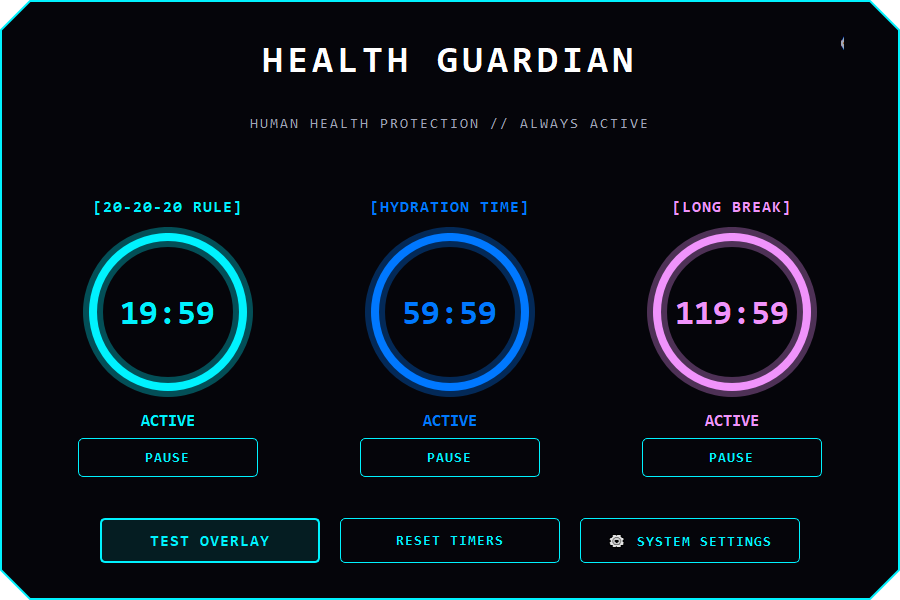
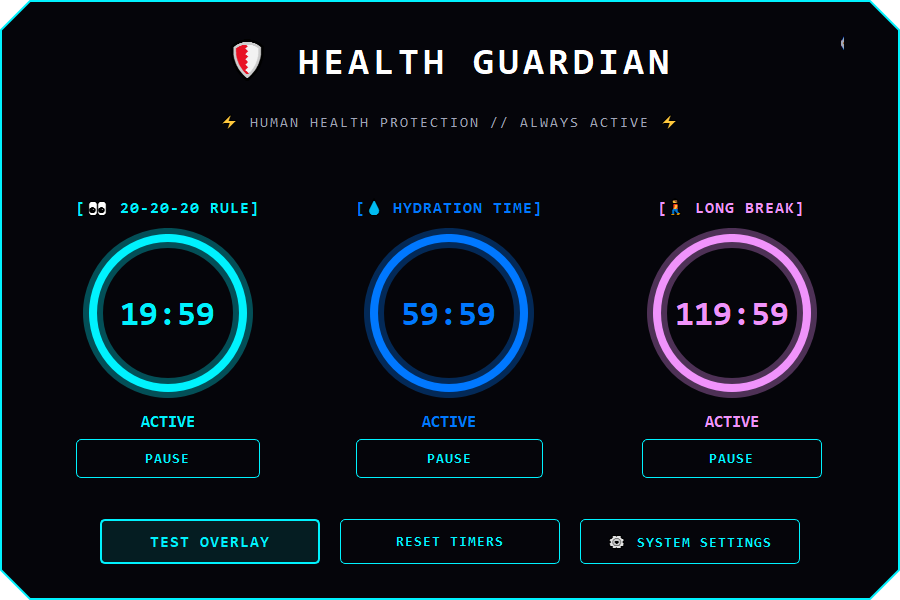
feat: add health emojis to titles and dashboard headers for professional engagement

diff --git a/main.py b/main.py
@@ -28,9 +28,9 @@ APP_SETTINGS = {
 
 # Configuration Data
 TIMERS_CONF = {
-    '20': {'duration': 20 * 60, 'break_duration': 20, 'title': '20-20-20 Rule', 'message': 'LOOK 20 FEET AWAY', 'color': '#00f2fe'},
-    '60': {'duration': 60 * 60, 'break_duration': 60, 'title': 'Hydration Time', 'message': 'DRINK WATER', 'color': '#0078FF'},
-    '120': {'duration': 120 * 60, 'break_duration': 15 * 60, 'title': 'Long Break', 'message': 'STEP AWAY FROM PC', 'color': '#f093fb'}
+    '20': {'duration': 20 * 60, 'break_duration': 20, 'title': '👀 20-20-20 Rule', 'message': 'LOOK 20 FEET AWAY', 'color': '#00f2fe'},
+    '60': {'duration': 60 * 60, 'break_duration': 60, 'title': '💧 Hydration Time', 'message': 'DRINK WATER', 'color': '#0078FF'},
+    '120': {'duration': 120 * 60, 'break_duration': 15 * 60, 'title': '🚶♂ Long Break', 'message': 'STEP AWAY FROM PC', 'color': '#f093fb'}
 }
 
 class CyberPanel(QWidget):
@@ -402,10 +402,10 @@ class HealthGuardianDashboard(QMainWindow):
         close_btn.setCursor(Qt.CursorShape.PointingHandCursor)
         close_btn.clicked.connect(self.close)
         
-        header = QLabel("HEALTH GUARDIAN")
+        header = QLabel("🛡 HEALTH GUARDIAN")
         header.setStyleSheet("font-size: 38px; font-weight: bold; letter-spacing: 4px; color: #ffffff;")
         header.setAlignment(Qt.AlignmentFlag.AlignCenter)
-        sub = QLabel("HUMAN HEALTH PROTECTION // ALWAYS ACTIVE")
+        sub = QLabel("⚡ HUMAN HEALTH PROTECTION // ALWAYS ACTIVE ⚡")
         sub.setStyleSheet("font-size: 14px; color: #a0a5b8; letter-spacing: 2px; font-weight: normal;")
         sub.setAlignment(Qt.AlignmentFlag.AlignCenter)
         
